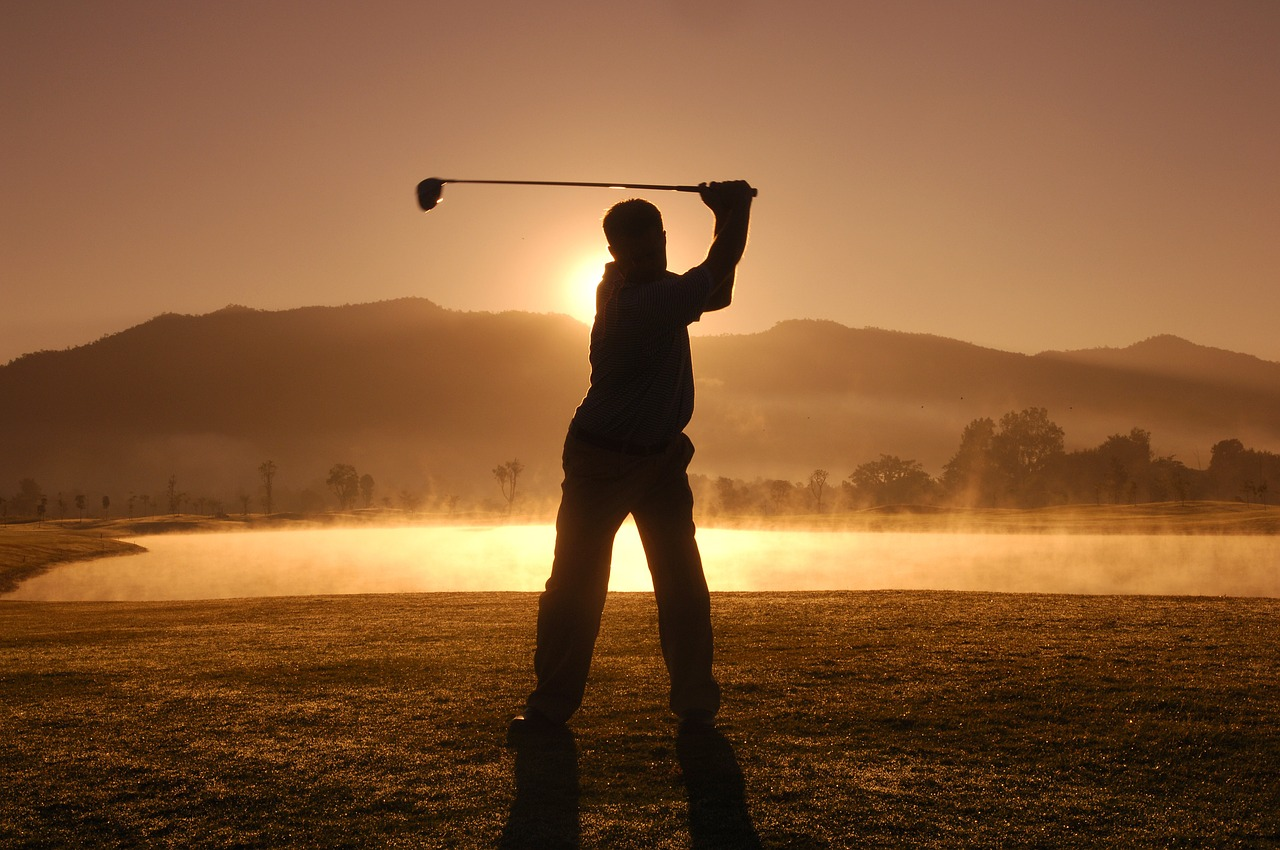
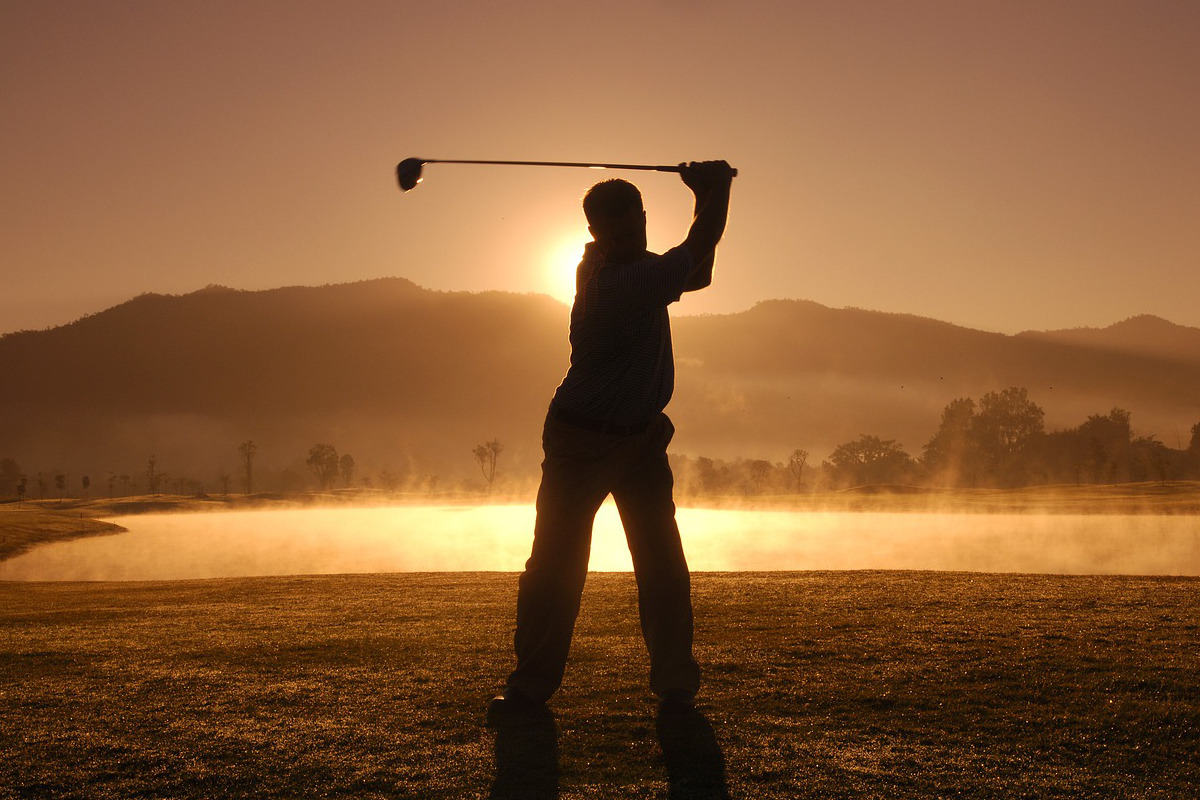
updated pics

diff --git a/src/app/components/start/start.component.html b/src/app/components/start/start.component.html
@@ -50,7 +50,7 @@
 <main class="start-grid">
   <div class="start-grid-item start-card start-clickable">
     <a routerLink="/huset" routerLinkActive="active">
-      <img src="assets/images/start/hus2.jpg" alt="huset"/>
+      <img src="assets/images/start/hus.jpg" alt="huset"/>
       <!--<div class="tape-1" target="color-greenish1">
         <span>Ta en titt</span>
       </div>
@@ -60,13 +60,13 @@
       <div class="start-card-text start-card-text-link">
         <span>Ta en titt på huset</span>
       </div>
-      <div class="start-link-arrow"> ></div>
+      <!--<div class="start-link-arrow"> ></div>-->
     </a>
   </div>
 
   <div class="start-grid-item start-card start-clickable">
     <a routerLink="/omradet" routerLinkActive="active">
-      <img src="assets/images/start/strand6.jpg" alt="området"/>
+      <img src="assets/images/start/strand.jpg" alt="området"/>
       <!--<div class="tape-1" target="color-green1">
         <span>Spana in</span>
       </div>
@@ -76,7 +76,7 @@
       <div class="start-card-text start-card-text-link">
         <span>Utforska Laem Mae Phim</span>
       </div>
-      <div class="start-link-arrow"> ></div>
+      <!--<div class="start-link-arrow"> ></div>-->
     </a>
   </div>
 
@@ -92,7 +92,7 @@
       <div class="start-card-text start-card-text-link">
         <span>Utforska aktiviteter</span>
       </div>
-      <div class="start-link-arrow"> ></div>
+      <!--<div class="start-link-arrow"> ></div>-->
     </a>
   </div>
 
